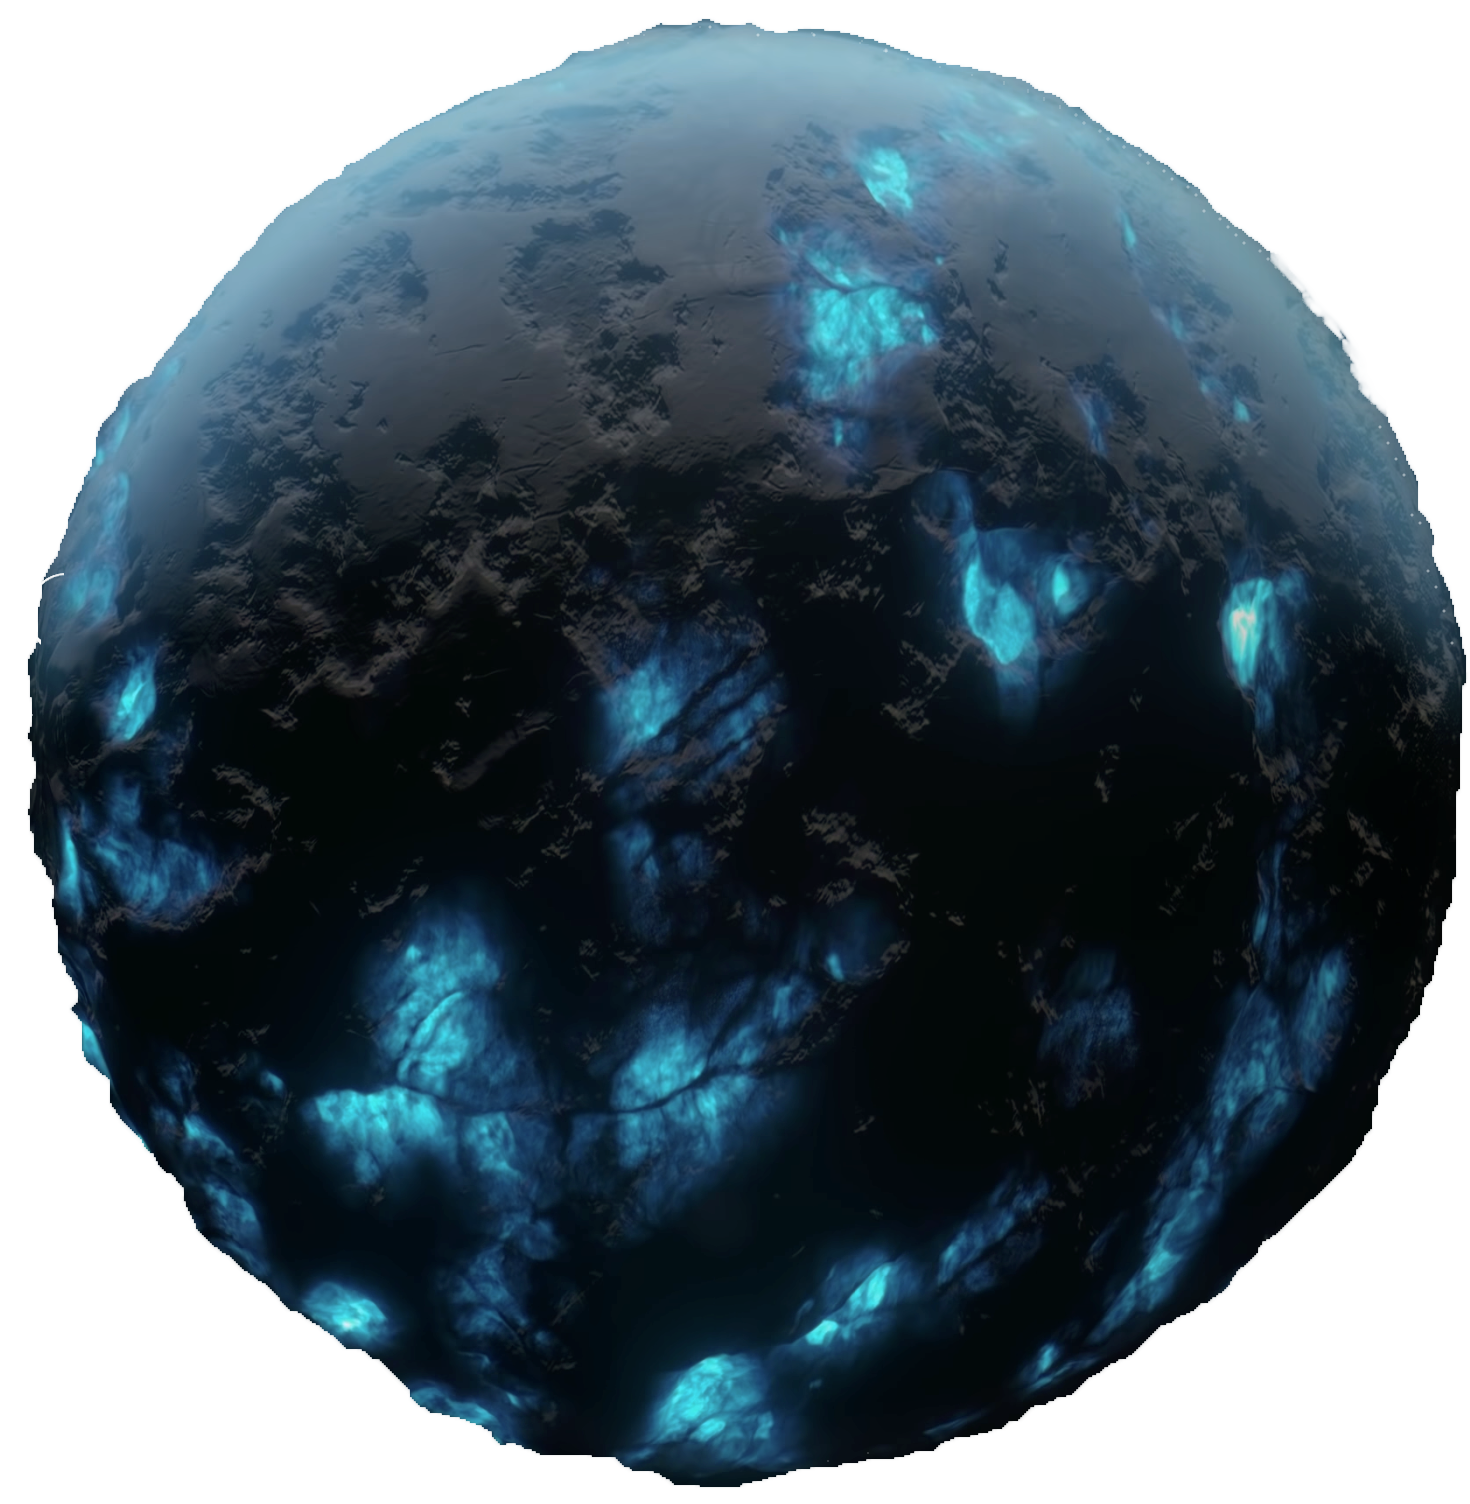
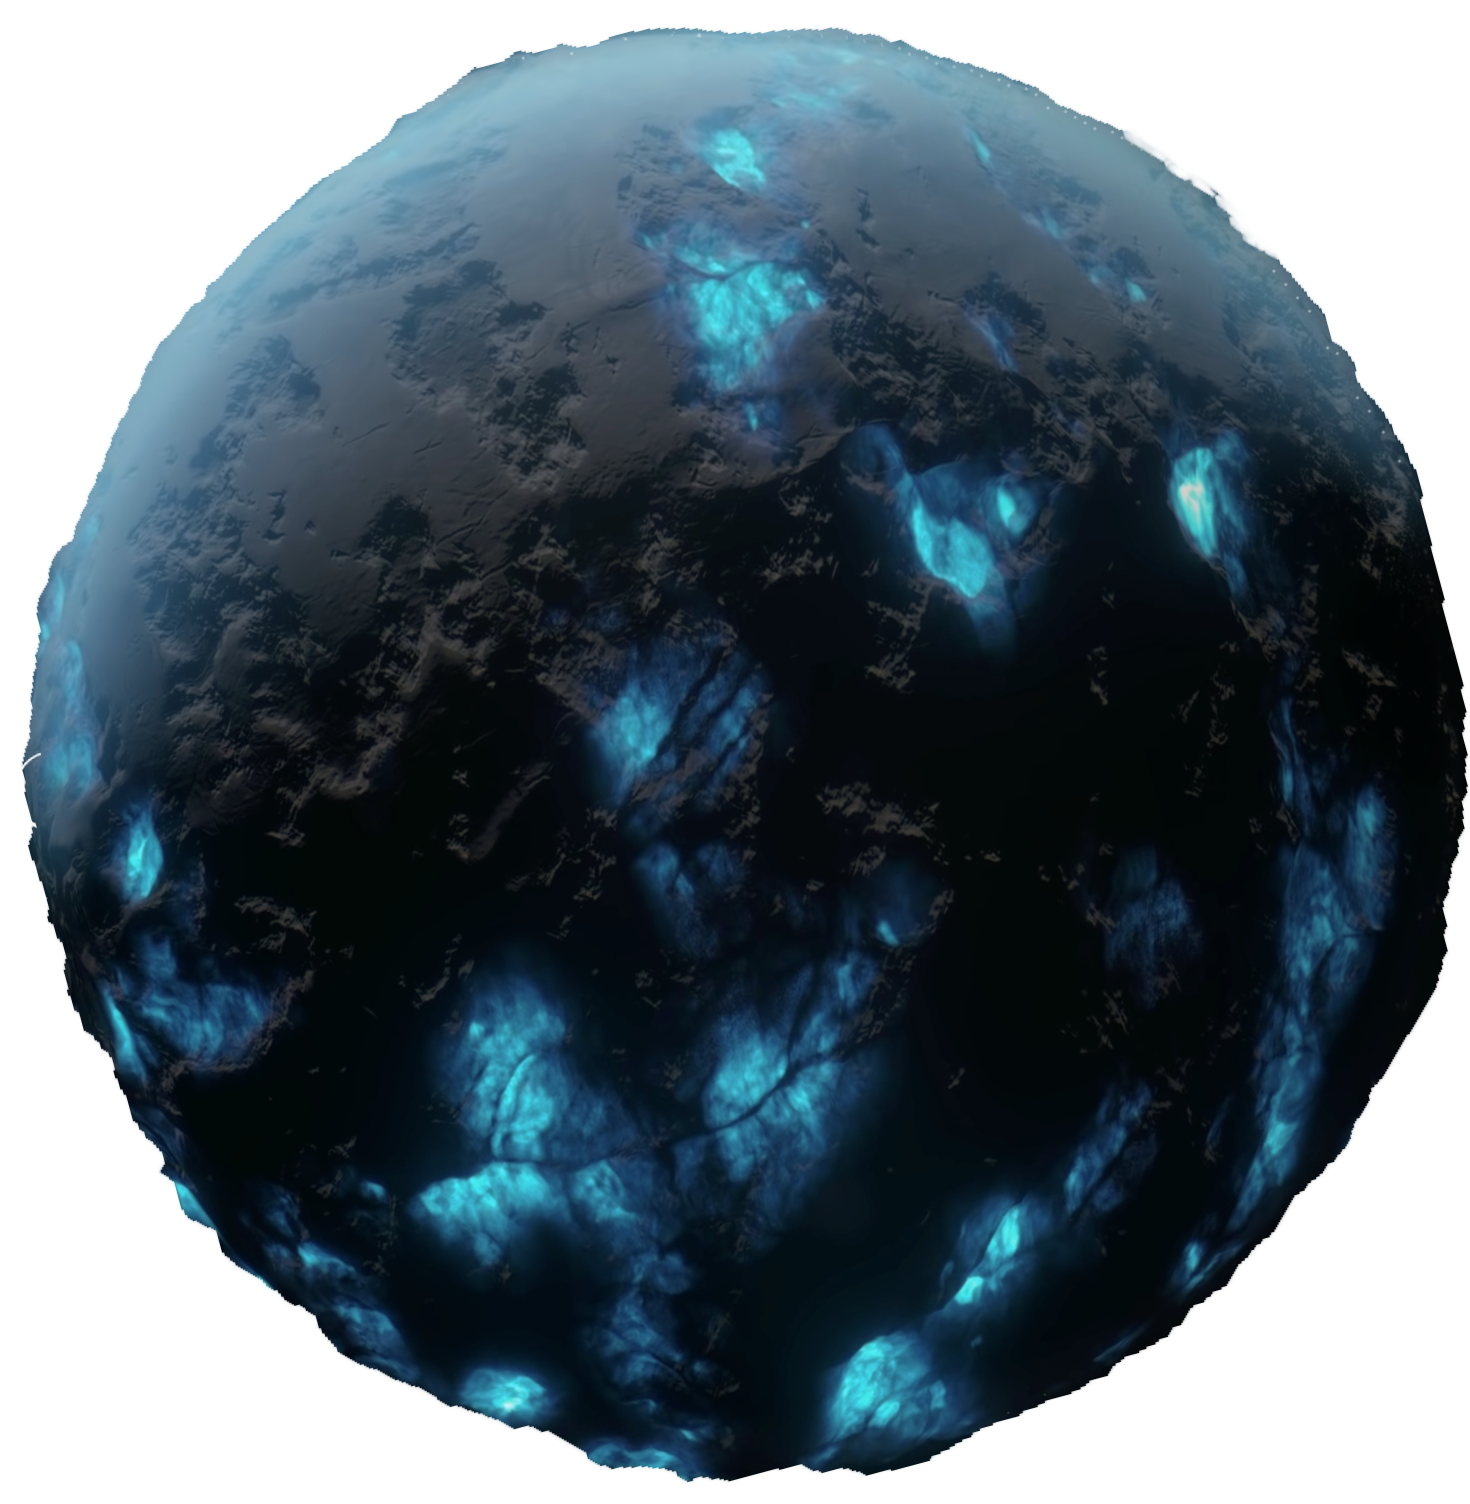
Align BGs

diff --git a/general.css b/general.css
@@ -543,9 +543,9 @@ body{
 
 .aboutPageBody {
     background-image: url(./assets/AboutPageBackground/properPlanet.png);
-    background-size: 90%;
+    background-size: 50%;
     background-repeat: no-repeat;
-    background-position: top -50px right 0px;
+    background-position: top -120px left 100%;
     transition: background-position 0.25s;
 }
 
@@ -559,9 +559,9 @@ body{
     background-image: 
         url(./assets/ShopPageBackground/shopPlanet1.png), 
         url(./assets/ShopPageBackground/shopPlanet2.png);
-    background-size: 20%, 30%;
+    background-size: 18%, 30%;
     background-repeat: no-repeat;
-    background-position: bottom 80px left 520px, right 50px top 25px;
+    background-position: top 85% left 38%, top -18% left 87%;
     transition: background-position 0.25s;
 }
 
@@ -578,9 +578,9 @@ body{
         url(./assets/IndexBackground/papaBear.png),
         url(./assets/IndexBackground/mamaBear.png),
         url(./assets/IndexBackground/babyBear.png);
-    background-size: 100%, 100%, 25%, 15%, 5%;
+    background-size: 100%, 100%, 40%, 20%, 7%;
     background-repeat: no-repeat;
-    background-position: top 245px left 0px, top 120px left 0px, top 375px left 1150px, top 200px left 350px, top 150px left 1000px;
+    background-position: top 115% left 0%, top 63% left 0%, top 110% left 90%, top 38% left 22%, top 17% left 53%;
     transition: background-position 0.25s;
 }
 
@@ -600,9 +600,9 @@ body{
         url(./assets/ProjectBackground/rockTwo.png),
         url(./assets/ProjectBackground/rockThree.png),
         url(./assets/ProjectBackground/rockFour.png);
-    background-size: 100%, 100%, 10%, 15%, 18%, 22%;
+    background-size: 100%, 100%, 13%, 20%, 20%, 26%;
     background-repeat: no-repeat;
-    background-position: bottom, bottom, top 100px left 1450px, top 700px left 525px, top 400px left 1500px, top 50px left 250px;
+    background-position: top 100% left 0%, top 100% left 0%, top 5% left 86%, top 115% left 32%, top 60% left 98%, top -10% left 15%;
     transition: background-position 0.25s;
 }
 
@@ -618,9 +618,9 @@ body{
     background-image: 
         url(./assets/MusicBackground/musicPlanet1.png),
         url(./assets/MusicBackground/musicPlanet2.png);
-    background-size: 10%, 35%;
+    background-size: 12%, 38%;
     background-repeat: no-repeat;
-    background-position: top 150px left 1200px, top 150px left 200px;
+    background-position: top 12% left 70%, top 35% left 24%;
     transition: background-position 0.25s;
 }
 

diff --git a/projects.html b/projects.html
@@ -6,23 +6,23 @@
     <body class="projectPageBody" id="projectPageBody">
         <script>
             window.addEventListener('message', function(e) {
-                mover.style.backgroundPositionX = "0px, 0px, 1450px, 525px, 1500px, 250px" ;
-                mover.style.backgroundPositionY = "58px, 58px, 100px, 700px, 500px, 50px";
+                mover.style.backgroundPositionX = "0%, 0%, 86%, 32%, 98%, 15%" ;
+                mover.style.backgroundPositionY = "100%, 100%, 5%, 115%, 60%, -10%";
             }, false)
             var container = document.querySelector("#projectPageHTML");
             var mover = document.querySelector("#projectPageBody");
             container.addEventListener("mousemove", function(e) {
-                firstPlantBgPosX = 1450 + -e.offsetX * .05 + "px"
-                firstPlantBgPosY = 100 + -e.offsetY * .05 + "px"
-                secPlantBgPosX = 525 + -e.offsetX * .05 + "px"
-                secPlantBgPosY = 700 + e.offsetY * .05 + "px"
-                thirdPlantBgPosX = 1500 + e.offsetX * .05 + "px"
-                thirdPlantBgPosY = 500 + -e.offsetY * .05 + "px"
-                fourthPlantBgPosX = 250 + e.offsetX * .01 + "px"
-                fourthPlantBgPosY = 50 + e.offsetY * .01 + "px"
+                firstPlantBgPosX = 86 + -e.offsetX * .005 + "%"
+                firstPlantBgPosY = 5 + -e.offsetY * .005 + "%"
+                secPlantBgPosX = 32 + -e.offsetX * .005 + "%"
+                secPlantBgPosY = 115 + e.offsetY * .005 + "%"
+                thirdPlantBgPosX = 98 + e.offsetX * .005 + "%"
+                thirdPlantBgPosY = 60 + -e.offsetY * .005 + "%"
+                fourthPlantBgPosX = 15 + e.offsetX * .001 + "%"
+                fourthPlantBgPosY = -10 + e.offsetY * .001 + "%"
 
-                mover.style.backgroundPositionX = "0px, 0px, " + firstPlantBgPosX + ", " + secPlantBgPosX + ", " + thirdPlantBgPosX + ", " + fourthPlantBgPosX;
-                mover.style.backgroundPositionY = "58px, 58px, "+ firstPlantBgPosY + ", " + secPlantBgPosY + ", " + thirdPlantBgPosY + ", " + fourthPlantBgPosY;
+                mover.style.backgroundPositionX = "0%, 0%, " + firstPlantBgPosX + ", " + secPlantBgPosX + ", " + thirdPlantBgPosX + ", " + fourthPlantBgPosX;
+                mover.style.backgroundPositionY = "100%, 100%, "+ firstPlantBgPosY + ", " + secPlantBgPosY + ", " + thirdPlantBgPosY + ", " + fourthPlantBgPosY;
             });
 
             container.addEventListener("mouseenter", function() {

diff --git a/index.html b/index.html
@@ -6,21 +6,21 @@
     <body class="indexPageBody" id="indexPageBody">
         <script>
             window.addEventListener('message', function(e) {
-                mover.style.backgroundPositionX = "0px, 0px, 1150px, 350px, 1000px" ;
-                mover.style.backgroundPositionY = "245px, 120px, 375px, 200px, 150px";
+                mover.style.backgroundPositionX = "0%, 0%, 90%, 22%, 53%" ;
+                mover.style.backgroundPositionY = "115%, 63%, 110%, 38%, 17%";
             }, false)
             var container = document.querySelector("#indexPageHTML");
             var mover = document.querySelector("#indexPageBody");
             container.addEventListener("mousemove", function(e) {
-                firstPlantBgPosX = 1150 + -e.offsetX * .01 + "px"
-                firstPlantBgPosY = 375 + -e.offsetY * .01 + "px"
-                secPlantBgPosX = 350 + -e.offsetX * .03 + "px"
-                secPlantBgPosY = 200 + e.offsetY * .03 + "px"
-                thirdPlantBgPosX = 1000 + e.offsetX * .05 + "px"
-                thirdPlantBgPosY = 150 + e.offsetY * .05 + "px"
+                firstPlantBgPosX = 90 + -e.offsetX * .001 + "%"
+                firstPlantBgPosY = 110 + -e.offsetY * .001 + "%"
+                secPlantBgPosX = 22 + -e.offsetX * .003 + "%"
+                secPlantBgPosY = 38 + e.offsetY * .003 + "%"
+                thirdPlantBgPosX = 53 + e.offsetX * .005 + "%"
+                thirdPlantBgPosY = 17 + e.offsetY * .005 + "%"
 
-                mover.style.backgroundPositionX = "0px, 0px, " + firstPlantBgPosX + ", " + secPlantBgPosX + ", " + thirdPlantBgPosX;
-                mover.style.backgroundPositionY = "245px, 120px, "+ firstPlantBgPosY + ", " + secPlantBgPosY + ", " + thirdPlantBgPosY;
+                mover.style.backgroundPositionX = "0%, 0%, " + firstPlantBgPosX + ", " + secPlantBgPosX + ", " + thirdPlantBgPosX;
+                mover.style.backgroundPositionY = "115%, 63%, "+ firstPlantBgPosY + ", " + secPlantBgPosY + ", " + thirdPlantBgPosY;
             });
 
             container.addEventListener("mouseenter", function() {

diff --git a/music.html b/music.html
@@ -6,16 +6,16 @@
     <body class="musicPageBody" id="musicPageBody">
         <script>
             window.addEventListener('message', function(e) {
-                mover.style.backgroundPositionX = "1200px, 200px" ;
-                mover.style.backgroundPositionY = "150px, 150px";
+                mover.style.backgroundPositionX = "70%, 24%" ;
+                mover.style.backgroundPositionY = "12%, 35%";
             }, false)
             var container = document.querySelector("#musicPageHTML");
             var mover = document.querySelector("#musicPageBody");
             container.addEventListener("mousemove", function(e) {
-                firstPlantBgPosX = 1200 + -e.offsetX * .05 + "px"
-                firstPlantBgPosY = 150 + -e.offsetY * .05 + "px"
-                secPlantBgPosX = 200 + e.offsetX * .04 + "px"
-                secPlantBgPosY = 150 + e.offsetY * .02 + "px"
+                firstPlantBgPosX = 70 + -e.offsetX * .005 + "%"
+                firstPlantBgPosY = 12 + -e.offsetY * .005 + "%"
+                secPlantBgPosX = 24 + e.offsetX * .004 + "%"
+                secPlantBgPosY = 35 + e.offsetY * .002 + "%"
 
                 mover.style.backgroundPositionX = firstPlantBgPosX + ", " + secPlantBgPosX;
                 mover.style.backgroundPositionY = firstPlantBgPosY + ", " + secPlantBgPosY;

diff --git a/shop.html b/shop.html
@@ -6,17 +6,17 @@
     <body class="shopPageBody" id="shopPageBody">
         <script>
             window.addEventListener('message', function(e) {
-                mover.style.backgroundPositionX = "500px, 1250px" ;
-                mover.style.backgroundPositionY = "500px, 0px";
+                mover.style.backgroundPositionX = "38%, 87%" ;
+                mover.style.backgroundPositionY = "85%, -18%";
             }, false)
             var container = document.querySelector("#shopPageHTML");
             var mover = document.querySelector("#shopPageBody");
 
             container.addEventListener("mousemove", function(e) {
-                firstPlantBgPosX = 500 + e.offsetX * .05 + "px"
-                firstPlantBgPosY = 500 + e.offsetY * .05 + "px"
-                secPlantBgPosX = 1250 + -e.offsetX * .04 + "px"
-                secPlantBgPosY = -e.offsetY * .03 + "px"
+                firstPlantBgPosX = 38 + e.offsetX * .005 + "%"
+                firstPlantBgPosY = 85 + e.offsetY * .005 + "%"
+                secPlantBgPosX = 87 + -e.offsetX * .004 + "%"
+                secPlantBgPosY = -18 + -e.offsetY * .003 + "%"
 
                 mover.style.backgroundPositionX = firstPlantBgPosX + ", " + secPlantBgPosX;
                 mover.style.backgroundPositionY = firstPlantBgPosY + ", " + secPlantBgPosY;

diff --git a/melodysheep.html b/melodysheep.html
@@ -66,6 +66,7 @@
                         break;
                     case 'unloadIndex':
                         document.getElementById('index').contentWindow.postMessage("message", "*");
+                        console.log()
                         setTimeout(function(){
                             document.getElementById('index').style.display = "none";
                             document.getElementById('indexVid').style.display = "block";
@@ -159,6 +160,6 @@
     <iframe src="musicSubPage.html" id="musicSubPage" class="hiddenAtStart" title="musicSubPage" height="100%" width="100%"></iframe>
     <iframe src="shop.html" id="shop" title="shop" height="100%"  class="hiddenAtStart" width="100%"></iframe>
     <iframe src="shopSubPage.html" id="shopSubPage" class="hiddenAtStart" title="shopSubPage" height="100%" width="100%"></iframe>
-    <iframe src="about.html" id="about" title="about" height="100%"  class="hiddenAtStart" width="100%"></iframe>
+    <iframe src="about.html" id="about" title="about" class="hiddenAtStart" height="100%" width="100%"></iframe>
     <iframe src="aboutSubPage.html" id="aboutSubPage" class="hiddenAtStart" title="aboutSubPage" height="100%" width="100%"></iframe>
 </html>

diff --git a/about.html b/about.html
@@ -8,13 +8,13 @@
             var container = document.querySelector("#aboutPageHTML");
             var mover = document.querySelector("#aboutPageBody");
             window.addEventListener('message', function(e) {
-                mover.style.backgroundPositionX = "180px" ;
-                mover.style.backgroundPositionY = "-60px";
+                mover.style.backgroundPositionX = "100%" ;
+                mover.style.backgroundPositionY = "-120px";
             }, false)
 
             container.addEventListener("mousemove", function(e) {
-                mover.style.backgroundPositionX = 180 + e.offsetX * .02 + "px";
-                mover.style.backgroundPositionY = -60 + e.offsetY * .02 + "px";
+                mover.style.backgroundPositionX = 100 + e.offsetX * .002 + "%";
+                mover.style.backgroundPositionY = -120 + e.offsetY * .02 + "px";
             });
 
             container.addEventListener("mouseenter", function() {
